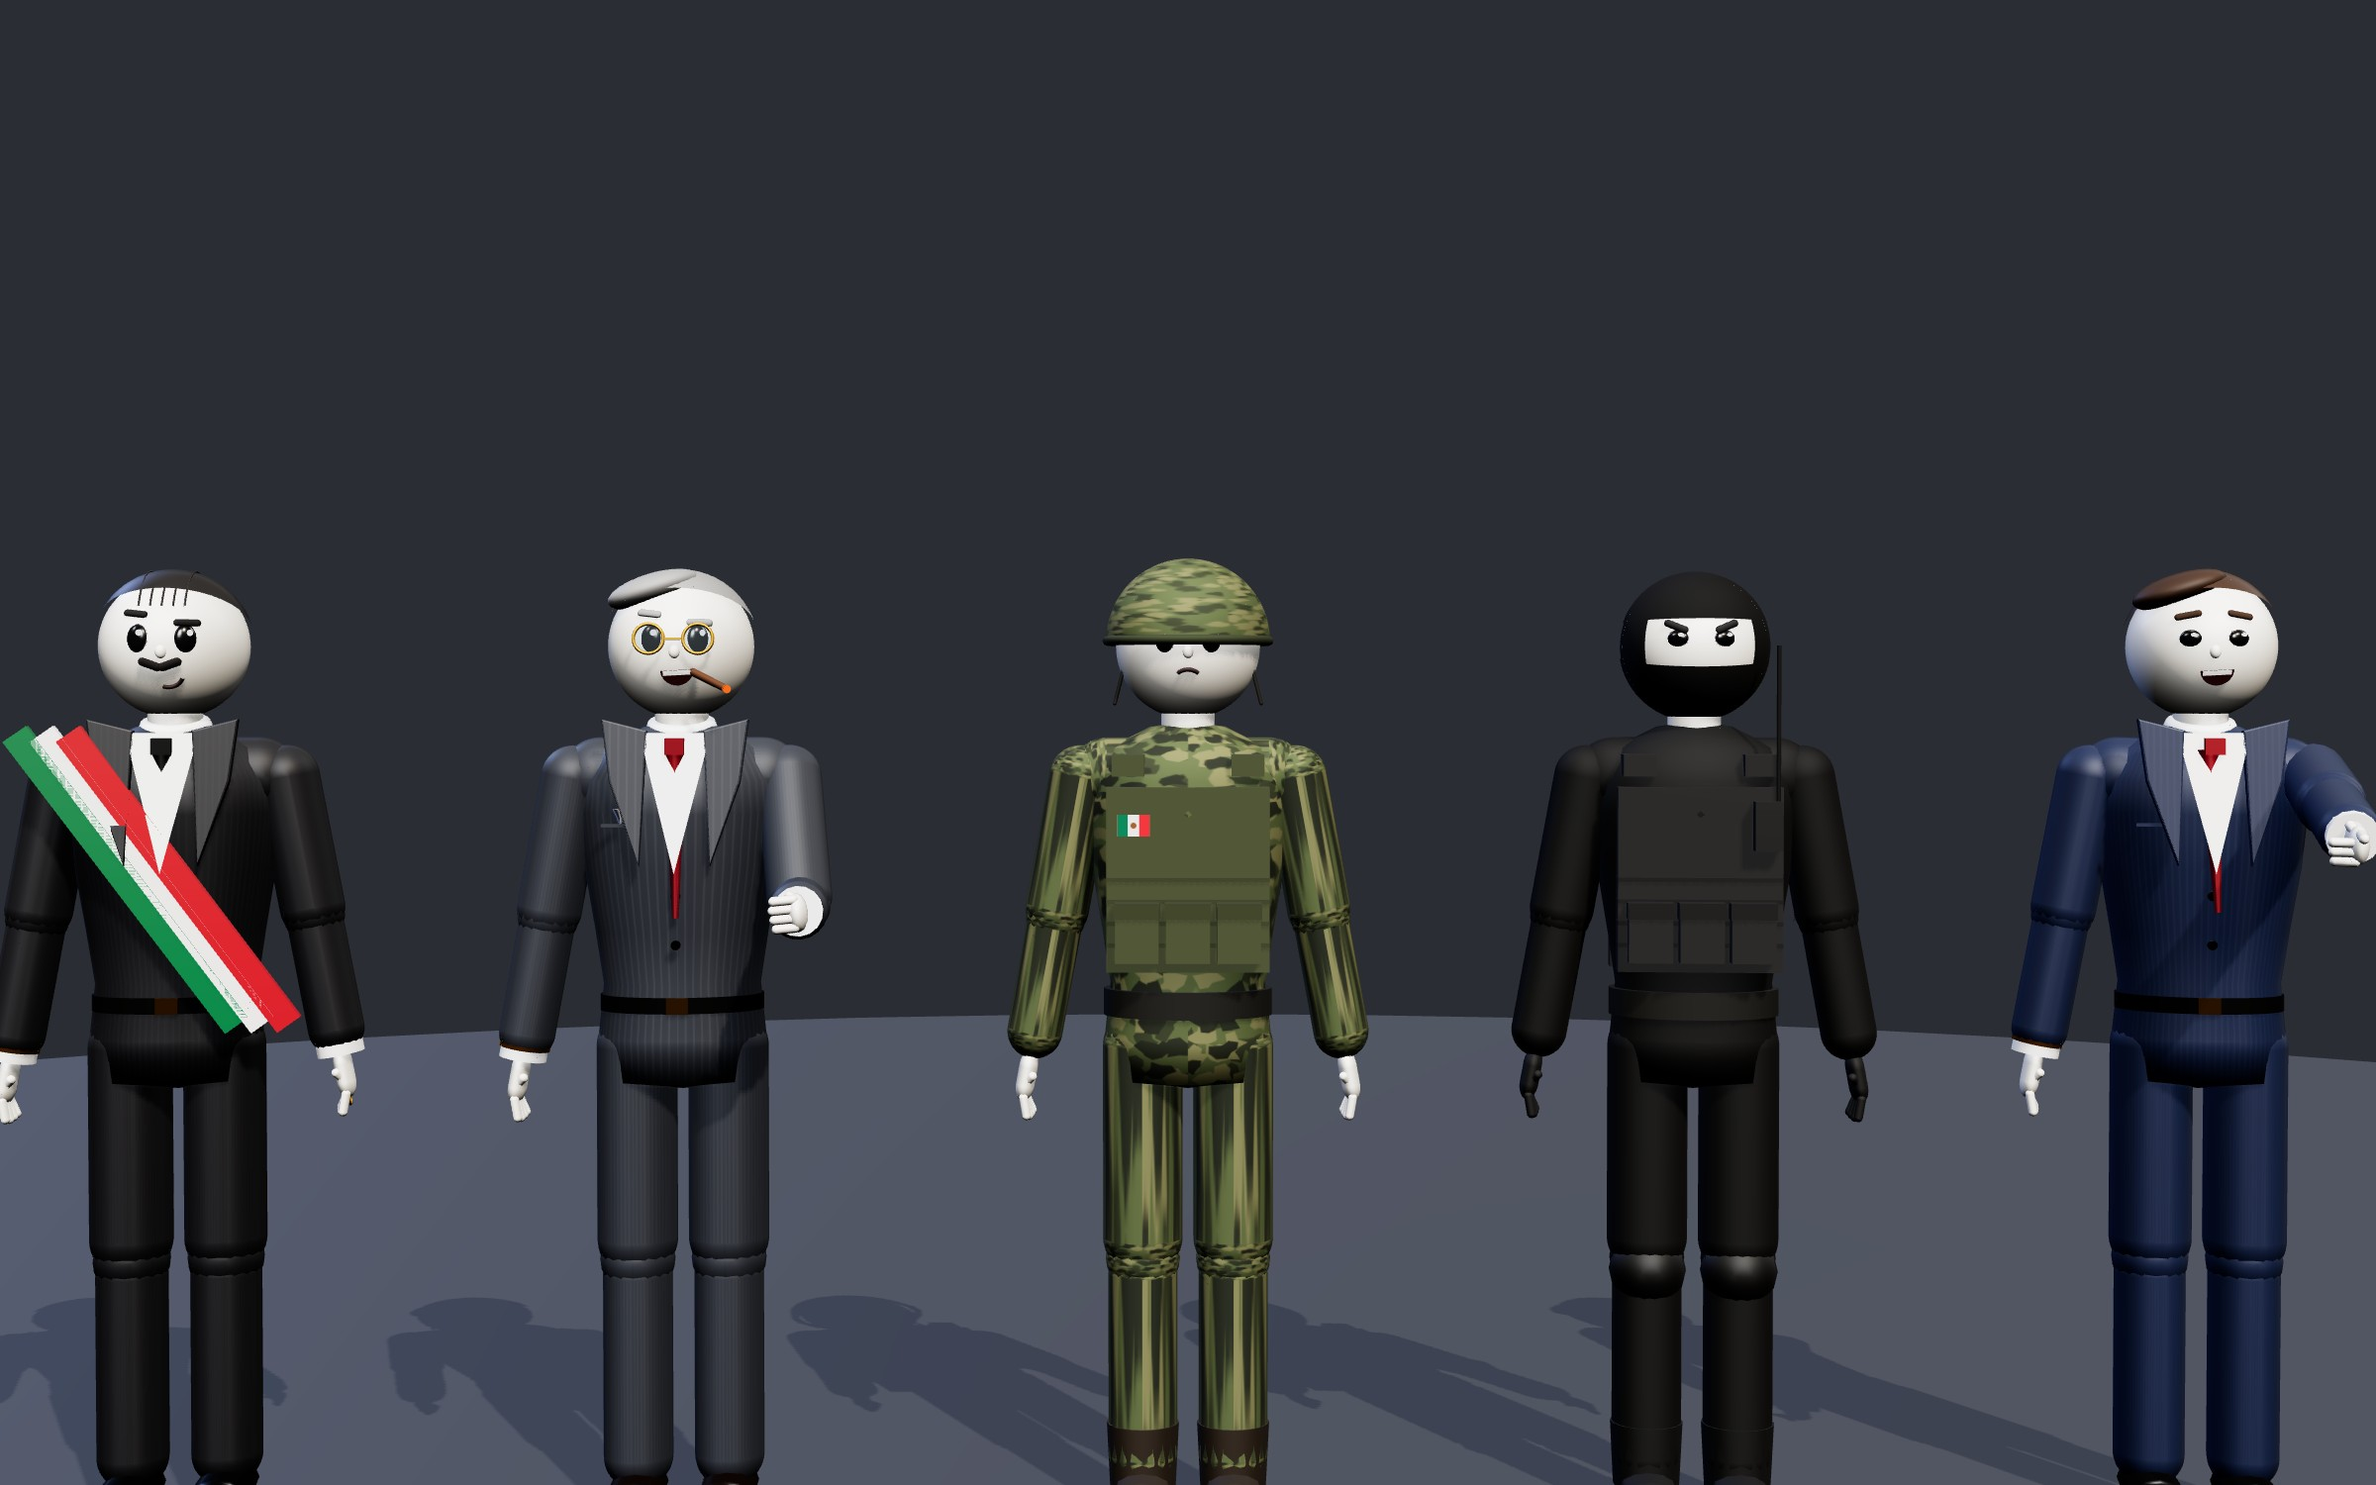
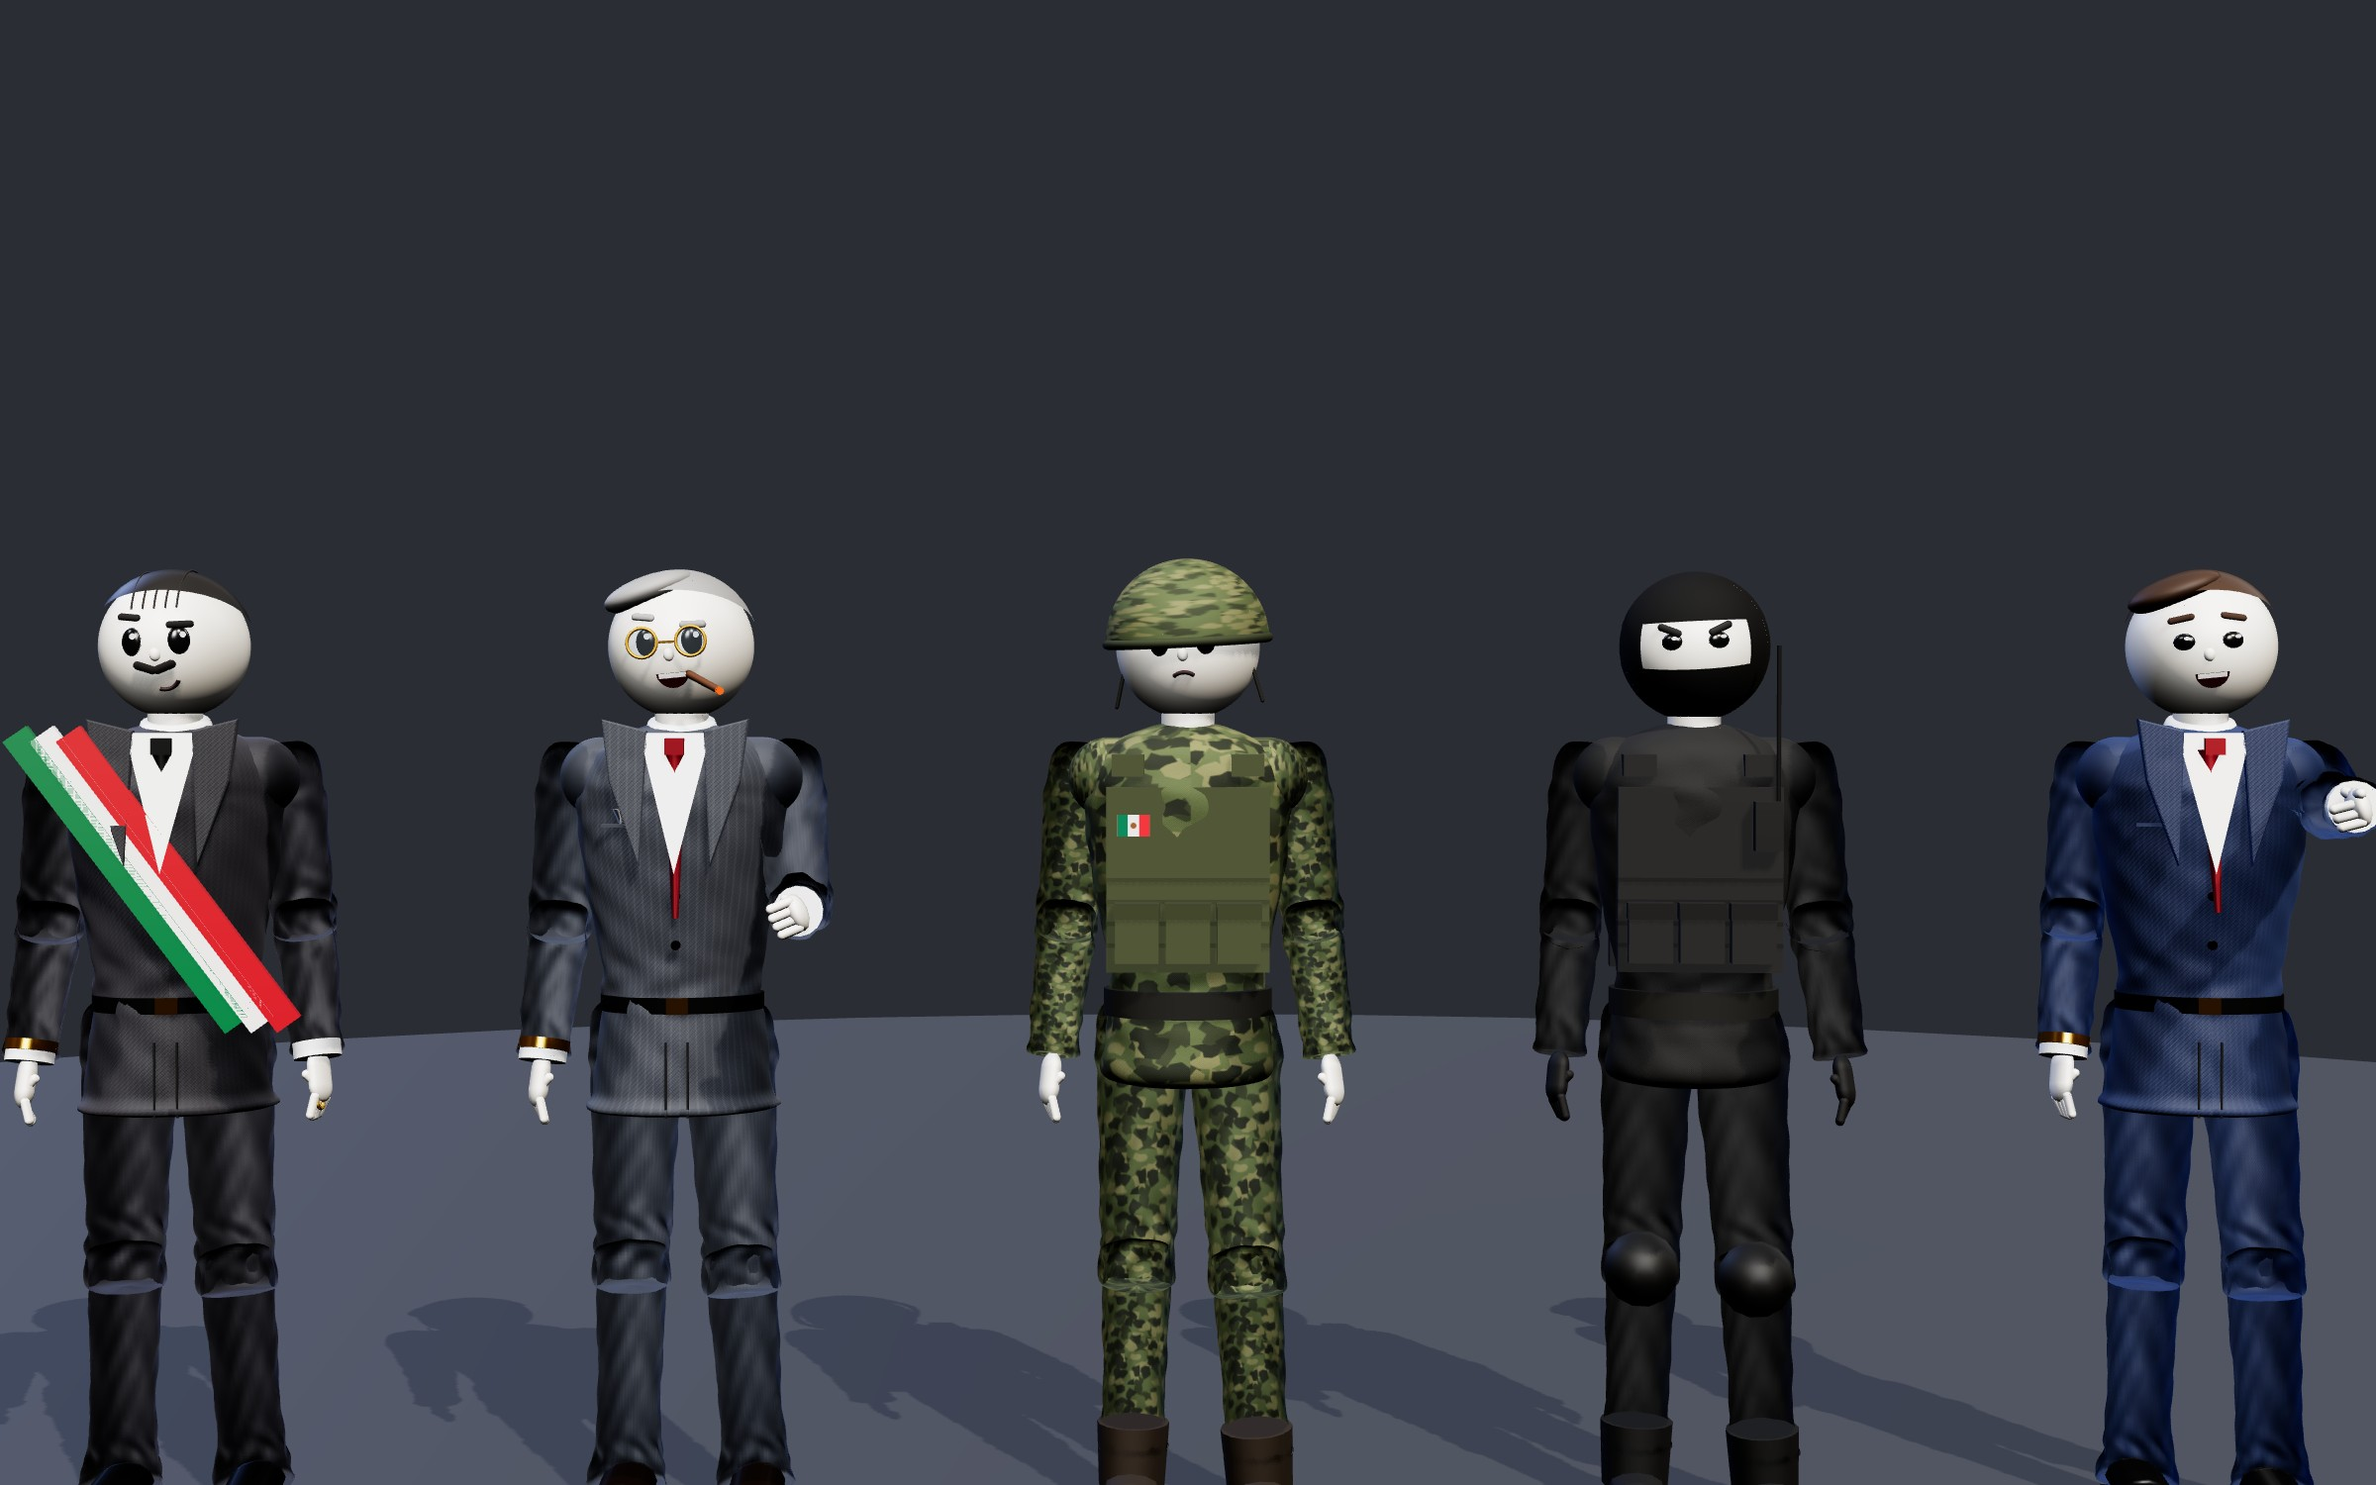
Characters: tapered garments with fabric folds, cloth materials, natural stance
Claude-Session: https://claude.ai/code/session_01WDrQiuAKGjVZNTyo2ws8iR

diff --git a/youtube-shorts/narco-estado/build/chars.js b/youtube-shorts/narco-estado/build/chars.js
@@ -18,6 +18,42 @@ function camoTex(cols, seed = 3) {
 const fabric = (base, lines = 'rgba(255,255,255,.05)', step = 6) => tex(128, 128, (g, w, h) => { g.fillStyle = base; g.fillRect(0, 0, w, h); g.strokeStyle = lines;
   for (let x = 0; x < w; x += step) { g.beginPath(); g.moveTo(x, 0); g.lineTo(x, h); g.stroke(); } }, 4);
 
+// fabric normal map: fine weave + soft irregular rumples (computed from a heightfield)
+const _nCache = {};
+function fabricNormal(kind = 'wool') {
+  if (_nCache[kind]) return _nCache[kind];
+  const N = 256, hgt = new Float32Array(N * N); let sd = 11; const r = () => (sd = (sd * 16807) % 2147483647) / 2147483647;
+  const blobs = Array.from({ length: 40 }, () => [r() * N, r() * N, 8 + r() * 30, r() - .5]);
+  for (let y = 0; y < N; y++) for (let x = 0; x < N; x++) {
+    let h = kind === 'wool' ? Math.sin(x * 1.6) * Math.sin(y * 1.6) * .25 + Math.sin((x + y) * .9) * .15 : Math.sin(x * 2.2) * .3 * (Math.sin(y * 2.2) > 0 ? 1 : -1);
+    for (const [bx, by, br, bs] of blobs) { const dx = Math.min(Math.abs(x - bx), N - Math.abs(x - bx)), dy = Math.min(Math.abs(y - by), N - Math.abs(y - by)); h += bs * 2.2 * Math.exp(-(dx * dx + dy * dy) / (br * br)); }
+    hgt[y * N + x] = h + (r() - .5) * .25;
+  }
+  const c = document.createElement('canvas'); c.width = c.height = N; const g = c.getContext('2d'), im = g.createImageData(N, N);
+  for (let y = 0; y < N; y++) for (let x = 0; x < N; x++) {
+    const hx = hgt[y * N + (x + 1) % N] - hgt[y * N + (x + N - 1) % N], hy = hgt[((y + 1) % N) * N + x] - hgt[((y + N - 1) % N) * N + x];
+    const v = new THREE.Vector3(-hx, -hy, 2).normalize(), i = (y * N + x) * 4;
+    im.data[i] = (v.x * .5 + .5) * 255; im.data[i + 1] = (v.y * .5 + .5) * 255; im.data[i + 2] = (v.z * .5 + .5) * 255; im.data[i + 3] = 255; }
+  g.putImageData(im, 0, 0); const t = new THREE.CanvasTexture(c); t.wrapS = t.wrapT = THREE.RepeatWrapping; t.repeat.set(3, 3); return _nCache[kind] = t;
+}
+const cloth = (o, kind = 'wool') => new THREE.MeshPhysicalMaterial({ roughness: .78, sheen: .5, sheenRoughness: .7, sheenColor: new THREE.Color(0x777777),
+  normalMap: fabricNormal(kind), normalScale: new THREE.Vector2(.55, .55), ...o });
+
+const clamp01 = x => Math.min(1, Math.max(0, x));
+// tapered garment tube from a [radius, y] profile, with fabric folds pushed into the surface
+function garment(profile, folds = [], seed = 1, segs = 40) {
+  const curve = new THREE.SplineCurve(profile.map(([r, y]) => new THREE.Vector2(r, y)));
+  const pts = curve.getSpacedPoints(Math.max(24, Math.round(curve.getLength() / .006))); pts[0].x = profile[0][0]; pts[pts.length - 1].x = profile[profile.length - 1][0];
+  const geo = new THREE.LatheGeometry(pts, segs), p = geo.attributes.position;
+  for (let i = 0; i < p.count; i++) {
+    const x = p.getX(i), y = p.getY(i), z = p.getZ(i), rad = Math.hypot(x, z); if (rad < .004) continue;
+    const th = Math.atan2(z, x); let d = (Math.sin(th * 5 + y * 40 + seed) + Math.sin(th * 9 - y * 70 + seed * 2)) * .0012;
+    for (const [yc, w, amp, k] of folds) { const f = Math.exp(-Math.pow((y - yc) / w, 2)); d += amp * f * (Math.sin(th * k + Math.sin(y * 60 + seed) * 1.5) * .7 + Math.sin(y * 90 + th * 2) * .3); }
+    const fade = clamp01(rad / .03); const sc = (rad + d * fade) / rad; p.setX(i, x * sc); p.setZ(i, z * sc);
+  }
+  geo.computeVertexNormals(); return geo;
+}
+
 // --- outfits & personalities ---
 const LOOKS = {
   president: { suit: 0x101014, tex: fabric('#16161b', 'rgba(255,255,255,.04)'), shirt: 0xf4f4f4, tie: 0x0c0c0c, shoes: 0x060606,
@@ -103,13 +139,15 @@ function hand(L, mat, side, pose = 'relaxed') {
 export function stickman(kind) {
   const L = LOOKS[kind], rig = { root: new THREE.Group(), kind }, root = rig.root;
   const skin = skinMat();
-  const top = L.camo ? new THREE.MeshStandardMaterial({ map: camoTex(L.camo), roughness: .92 })
-            : L.solid ? std(L.solid, { roughness: .85, map: fabric('#181818', 'rgba(255,255,255,.035)', 5) })
-            : std(0xffffff, { map: L.tex, roughness: .55 });
+  const top = L.camo ? cloth({ map: camoTex(L.camo), roughness: .92, sheenColor: new THREE.Color(0x3a4030) }, 'ripstop')
+            : L.solid ? cloth({ color: L.solid, roughness: .9, sheenColor: new THREE.Color(0x3a3a3a) }, 'ripstop')
+            : cloth({ map: L.tex, roughness: .7, sheenColor: new THREE.Color(L.suit).offsetHSL(0, 0, .25) });
   const legsM = top, shoeM = std(L.shoes, { roughness: L.suit ? .2 : .75, metalness: L.suit ? .1 : 0 });
   // sculpted torso (lathe profile: hips → waist → chest → shoulders), jacket hem flares below the belt
-  const prof = [[.001, .80], [.15, .82], [.155, .9], [.145, 1.0], [.16, 1.1], [.18, 1.22], [.19, 1.32], [.185, 1.38], [.15, 1.44], [.07, 1.48], [.001, 1.49]].map(([r, y]) => new THREE.Vector2(r, y));
-  const torso = add(root, new THREE.LatheGeometry(prof, 40), top); torso.scale.z = .66;
+  const prof = (L.suit ? [[.001, .76], [.168, .762], [.165, .8], [.155, .9], [.145, 1.0]] : [[.001, .8], [.15, .82], [.155, .9], [.143, 1.0]])
+    .concat([[.16, 1.1], [.182, 1.22], [.192, 1.32], [.188, 1.38], [.155, 1.44], [.07, 1.48], [.001, 1.49]]).map(([r, y]) => [r, y]);
+  const torso = add(root, garment(prof, [[1.0, .05, .004, 7], [1.36, .05, .003, 4]], 3, 48), top); torso.scale.z = .66;
+  if (L.suit) for (const sx of [-1, 1]) { const vent = add(root, new THREE.BoxGeometry(.004, .14, .004), std(0x000000), sx * .02, .83, .113); }
   // shoulders: a continuous yoke so arms grow out of the body
   const yoke = add(root, cap(.075, .3, 16), top, 0, 1.385, 0); yoke.rotation.z = Math.PI / 2; yoke.scale.set(1, 1, .82);
   add(root, cap(.05, .03), skin, 0, 1.5, 0);                                     // neck
@@ -150,10 +188,9 @@ export function stickman(kind) {
   const handMat = L.gloves ? std(0x111111, { roughness: .7 }) : skin;
   for (const s of [-1, 1]) {
     const a = new THREE.Group(); a.position.set(s * .2, 1.39, 0); root.add(a); a.rotation.z = s * .08;
-    add(a, cap(.06, .25), top, 0, -.13, 0);
+    add(a, garment([[.001, .06], [.04, .055], [.062, .02], [.064, -.06], [.06, -.17], [.057, -.26], [.056, -.3], [.03, -.315], [.001, -.316]], [[-.24, .04, .006, 5], [-.04, .03, .003, 3]], s * 5), top);
     const b = new THREE.Group(); b.position.y = -.27; a.add(b);
-    add(b, new THREE.SphereGeometry(.057, 16, 12), top);                                  // elbow fold (covered by fabric)
-    add(b, cap(.052, .2), top, 0, -.12, 0);
+    add(b, garment([[.001, .03], [.04, .025], [.053, .0], [.053, -.06], [.049, -.16], [.046, -.23], [.05, -.255], [.042, -.262], [.03, -.258]], [[-.03, .04, .006, 5], [-.2, .05, .003, 6]], s * 7), top);
     if (L.suit) add(b, new THREE.CylinderGeometry(.044, .044, .03, 16), std(L.shirt), 0, -.255, 0);   // shirt cuff
     if (L.pads) { add(b, new THREE.SphereGeometry(.062, 12, 8, 0, Math.PI * 2, 0, Math.PI / 2), std(0x0a0a0a, { roughness: .6 }), 0, 0, -.01).rotation.x = -Math.PI / 2; }
     if (L.watch && s < 0) add(b, new THREE.CylinderGeometry(.047, .047, .02, 16), std(0xd4a537, { metalness: 1, roughness: .2 }), 0, -.24, 0);
@@ -164,16 +201,23 @@ export function stickman(kind) {
   // legs
   for (const s of [-1, 1]) {
     const a = new THREE.Group(); a.position.set(s * .085, .9, 0); root.add(a);
-    add(a, cap(.075, .36), legsM, 0, -.2, 0);
+    add(a, garment([[.001, .07], [.07, .06], [.088, .0], [.082, -.12], [.074, -.28], [.07, -.4], [.068, -.47], [.001, -.472]], [[-.04, .05, .005, 4], [-.38, .04, .006, 6]], s * 3), legsM);
     const b = new THREE.Group(); b.position.y = -.42; a.add(b);
-    add(b, new THREE.SphereGeometry(.07, 16, 12), legsM);
-    add(b, cap(.065, .34), legsM, 0, -.2, 0);
+    const hem = L.suit ? [[.066, -.39], [.071, -.415], [.068, -.43], [.001, -.432]] : [[.062, -.36], [.001, -.365]];
+    add(b, garment([[.001, .03], [.05, .025], [.064, .0], [.063, -.1], [.058, -.25], [.06, -.33]].concat(hem), [[.0, .04, .006, 5], [-.39, .03, .007, 7]], s * 9), legsM);
     if (L.pads) add(b, new THREE.SphereGeometry(.072, 14, 8, 0, Math.PI * 2, 0, Math.PI / 2), std(0x0a0a0a, { roughness: .6 }), 0, -.02, .01).rotation.x = Math.PI / 2;
     const shoe = add(b, cap(.05, .14, 12), shoeM, 0, -.43, .045); shoe.rotation.x = Math.PI / 2; shoe.scale.set(1.05, 1, .75);
     add(b, new THREE.BoxGeometry(.105, .015, .25), std(0x050505, { roughness: .9 }), 0, -.468, .045);
     if (!L.suit) add(b, new THREE.CylinderGeometry(.068, .062, .12, 16), shoeM, 0, -.37, 0);  // boot shaft
     rig[s < 0 ? 'lLeg' : 'rLeg'] = { a, b };
   }
+  rig.relax = () => {
+    rig.lArm.a.rotation.set(.04, 0, -.1); rig.rArm.a.rotation.set(-.03, 0, .12); rig.lArm.b.rotation.x = -.28; rig.rArm.b.rotation.x = -.2;
+    rig.lArm.end.rotation.y = .3; rig.rArm.end.rotation.y = -.3;
+    rig.lLeg.a.rotation.set(0, 0, -.025); rig.rLeg.a.rotation.set(-.1, 0, .06); rig.rLeg.b.rotation.x = .17; rig.rLeg.a.position.y = .89;
+    head.rotation.set(.04, -.08, .05); torso.rotation.y = .04; root.rotation.y = .05;
+  };
+  rig.relax();
   const blinkPh = kind.length * .73;
   rig.tick = t => { const q = (t + blinkPh) % 3.4; const k = q < .13 ? Math.abs(Math.cos(q / .13 * Math.PI)) * .9 + .1 : 1;
     rig.eyes.forEach(e => e.scale.y = k); torso.scale.x = 1 + Math.sin(t * 2.2) * .008; };

diff --git a/youtube-shorts/narco-estado/build/preview.html b/youtube-shorts/narco-estado/build/preview.html
@@ -1,7 +1,9 @@
 <!doctype html><html><body style="margin:0;background:#000">
 <script type="importmap">{"imports":{"three":"./node_modules/three/build/three.module.js","three/addons/":"./node_modules/three/examples/jsm/"}}</script>
 <script type="module">
-import * as THREE from 'three'; import { RoomEnvironment } from 'three/addons/environments/RoomEnvironment.js'; import { stickman } from './chars.js';
+import * as THREE from 'three'; import { RoomEnvironment } from 'three/addons/environments/RoomEnvironment.js'; const { stickman } = await import('./' + (new URLSearchParams(location.search).get('v') || 'chars') + '.js');
+import { EffectComposer } from 'three/addons/postprocessing/EffectComposer.js'; import { RenderPass } from 'three/addons/postprocessing/RenderPass.js';
+import { GTAOPass } from 'three/addons/postprocessing/GTAOPass.js'; import { OutputPass } from 'three/addons/postprocessing/OutputPass.js';
 const W = 2400, H = 1500; const r = new THREE.WebGLRenderer({ antialias: true, preserveDrawingBuffer: true }); r.setSize(W, H);
 r.shadowMap.enabled = true; r.toneMapping = THREE.ACESFilmicToneMapping; r.outputColorSpace = THREE.SRGBColorSpace; document.body.appendChild(r.domElement);
 const s = new THREE.Scene(); s.background = new THREE.Color(0x2a2d33); s.environment = new THREE.PMREMGenerator(r).fromScene(new RoomEnvironment(), .04).texture; s.environmentIntensity = .6;
@@ -10,11 +12,11 @@ const d = new THREE.DirectionalLight(0xfff2e0, 2.2); d.position.set(3, 6, 6); d.
 const rim = new THREE.DirectionalLight(0x8fb0ff, 1.2); rim.position.set(-4, 3, -4); s.add(rim);
 const kinds = ['president', 'executive', 'soldier', 'tactical', 'narrator'];
 const rigs = kinds.map((k, i) => { const m = stickman(k); m.root.position.x = (i - 2) * .95; m.root.rotation.y = (i - 2) * -.08; s.add(m.root);
-  m.lArm.a.rotation.z -= .1; m.rArm.a.rotation.z += .1; m.tick(1); return m; });
+  m.tick(1); return m; });
 rigs[4].rArm.a.rotation.set(-1.4, 0, -.1); rigs[4].setHand('r', 'point');
 rigs[1].rArm.a.rotation.set(-.5, 0, .1); rigs[1].rArm.b.rotation.x = -1.1; rigs[1].setHand('r', 'fist');
 const cam = new THREE.PerspectiveCamera(30, W / H, .1, 50);
 window.shot = mode => { if (mode === 'full') { cam.position.set(0, 1.15, 7.2); cam.lookAt(0, .95, 0); } else { cam.position.set(0, 1.55, 5.2); cam.lookAt(0, 1.45, 0); cam.fov = 30; cam.updateProjectionMatrix(); }
-  r.render(s, cam); };
+  if (new URLSearchParams(location.search).get('ao')) { const c = new EffectComposer(r); c.addPass(new RenderPass(s, cam)); const ao = new GTAOPass(s, cam, W, H); ao.blendIntensity = 1; c.addPass(ao); c.addPass(new OutputPass()); c.render(); } else r.render(s, cam); };
 window.ready = true;
 </script></body></html>

diff --git a/youtube-shorts/narco-estado/build/preview.js b/youtube-shorts/narco-estado/build/preview.js
@@ -1,6 +1,6 @@
 const { chromium } = require('playwright');
 (async () => { const b = await chromium.launch({ args: ['--use-angle=swiftshader', '--enable-unsafe-swiftshader'] });
   const p = await b.newPage({ viewport: { width: 2400, height: 1500 } }); p.on('pageerror', e => console.log('ERR', e.message)); p.on('console', m => console.log(m.text()));
-  await p.goto('http://127.0.0.1:8765/preview.html'); await p.waitForFunction(() => window.ready, null, { timeout: 60000 });
-  for (const m of ['full', 'faces']) { await p.evaluate(m => shot(m), m); await p.screenshot({ path: `preview_${m}.jpg`, quality: 90, type: 'jpeg' }); }
+  const q = process.argv[2] || ''; await p.goto('http://127.0.0.1:8765/preview.html' + q); await p.waitForFunction(() => window.ready, null, { timeout: 60000 });
+  for (const m of ['full', 'faces']) { await p.evaluate(m => shot(m), m); await p.screenshot({ path: `preview_${m}${process.argv[3] || ''}.jpg`, quality: 90, type: 'jpeg' }); }
   await b.close(); })();
